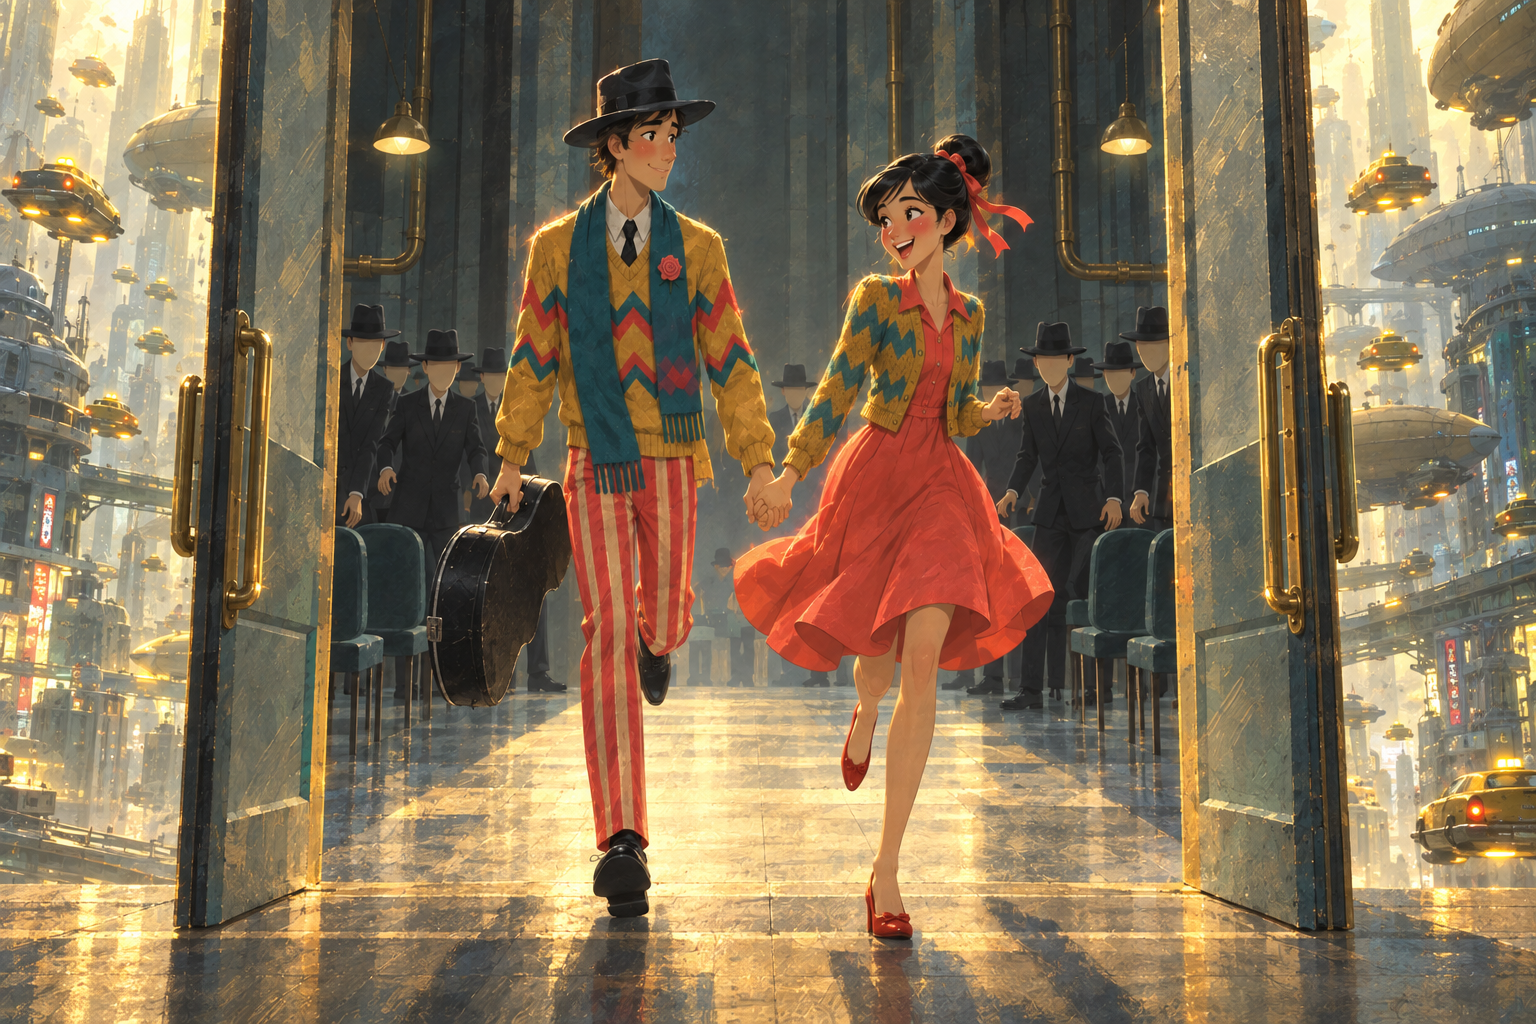
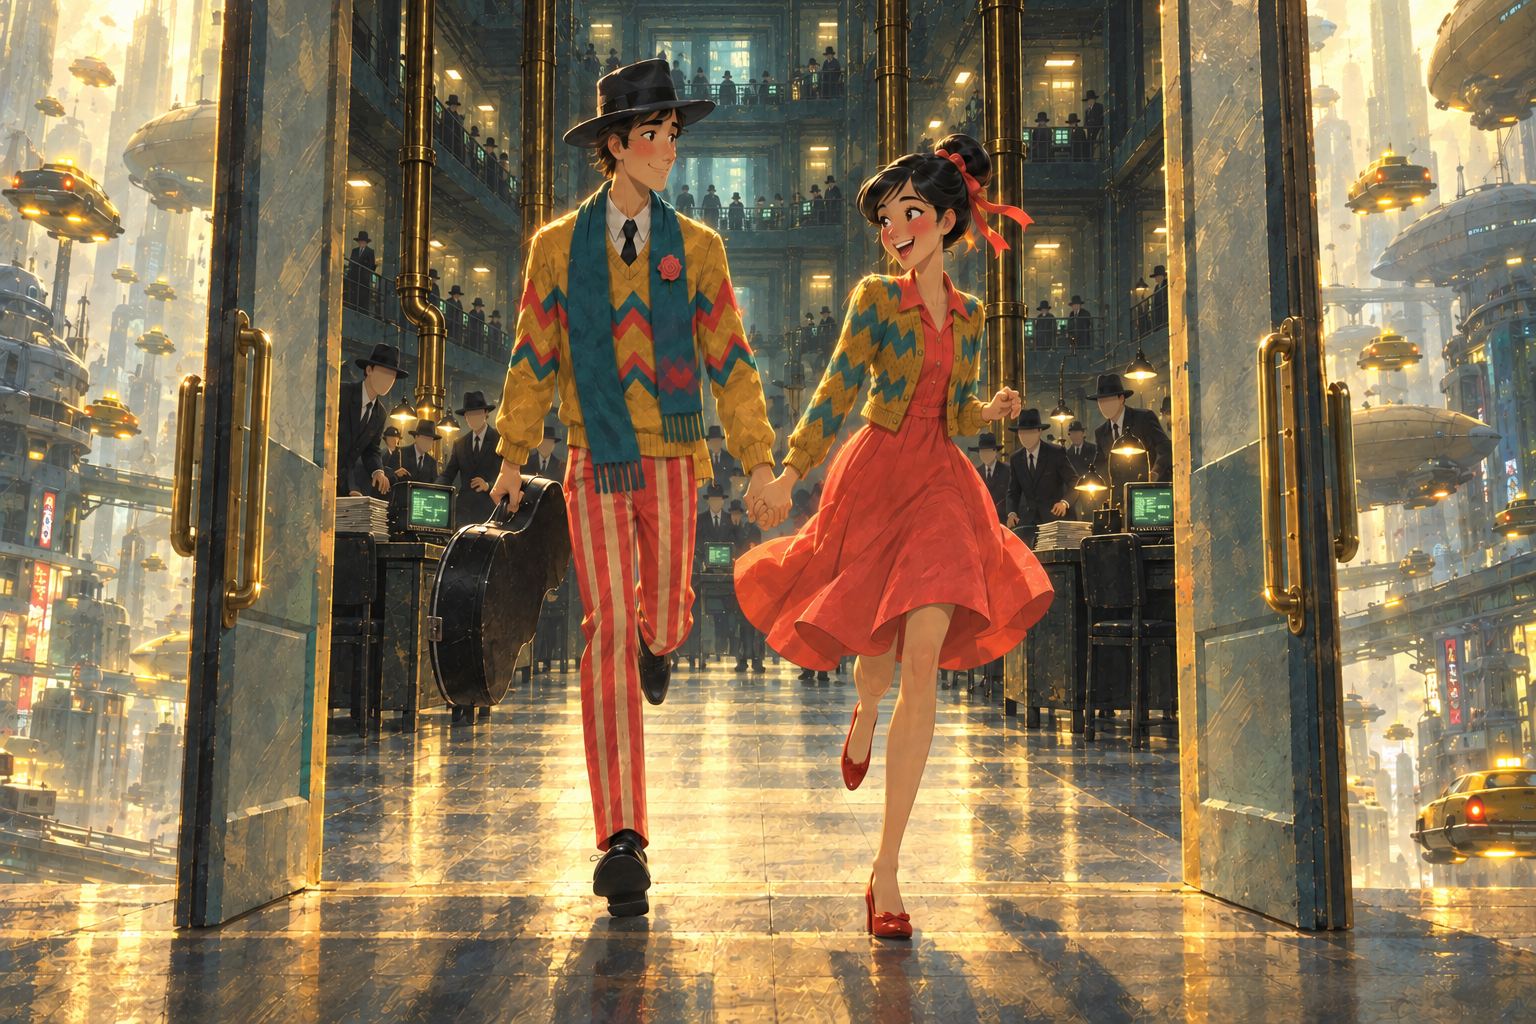
We Got Time world v12: two worlds, real office vs his nightmare hall
The multi-level terminal office is reality; the waiting hall of bodiless
chair-heads is his waking nightmare. Reality beats that had been set in the
hall move into the office, with whole people at terminals, and the escape
leaves the real office for the city. The README maps the song onto the two
worlds; location references are in locations/.

Closes #72

diff --git a/bobwiseman-wgt-generative/world/README.md b/bobwiseman-wgt-generative/world/README.md
@@ -3,7 +3,7 @@
 The goal (Robin): build the world and the stills that a full animation will be made from. This
 folder holds the world bible and a **living animatic** that shows where everything sits in the song.
 
-- `characters/`: plates 7 and 8 (AMENDED) are him and her in colour, for chapter 9 on. REGULATION DRESS plates 5 (him: front, 3/4, side, back) and 6 (her, plus five
+- `characters/`: REGULATION DRESS plates 5 (him: front, 3/4, side, back) and 6 (her, plus five
   expressions). Both match typist contender 1 (`../gpt/typist-contender-1/`).
 - `keyframes/chNN_*.png`: one or two stills per chapter of `../../bobwiseman-we-got-time/STORYBOARD.md`,
   most repainted from pinball-cut frames in `src/` (layout) with the locked style references.
@@ -17,17 +17,26 @@ World rules so far: faceless crowd, painted leads; more ducting and brass pneuma
 indoors; the ministry stays grey-teal with her rose collar as the only warm colour until chapter 9,
 where colour arrives; the sky chapters (5, 10) are blue.
 
-**Storyboard change (Robin, 2026-10-07), the Graduate escape:** he no longer meets her on the road. On
-"But I don't care what it costs" he runs back for her; her laughter dresses them both; they run out of the
-ministry hand in hand while the clerks rise like wedding guests; they walk the hundred miles together.
-Those beats are in `keyframes/escape/` (`ch09_both_dressed_dupe.png` is the version with a duplicated her).
+## Two worlds (Robin, 2026-10-07)
 
-**New style (2026-10-07):** the cinematic painted look from the other session (`../gpt/sky-cabs`, `../mj/14-15`).
-`style2/` holds the restyled plates 5-8, the guitar-case prop sheet (ISSUE ITEM 27B) and the style references.
-`upgrade_one.sh` repaints a still into `keyframes_v2/` (style ref by setting: ministry interiors, city
-exteriors, sky); `new_beat.sh` paints a new beat straight in the new style (`keyframes_v2/beats.tsv`).
-With `use_upgrades` in the manifest, `animatic.py` uses a still's `keyframes_v2` version when one exists, and
-entries listed later win where they overlap. World logic: waiting is his job (he's an employee of the
-Ministry of Waiting; 7 436 912 is his employee number); pneumatic tubes are realistic, hand-width; the flower
-goes by mail (his row's mail column, ceiling tubes, her desk bell). Files ending `_widetube`, `_lumpycase`,
-`_allcases` are the rejected versions, kept for comparison.
+- **Reality:** the multi-level ministry office (`locations/room2_typing_pool.png`), cinematic style. He and she are
+  clerks there; the boss, the time clock and the tube mail are real. Its people have bodies.
+- **His waking nightmare:** the endless waiting hall of bodiless chair-heads facing the NOW SERVING board. The
+  bodiless clerks are intentional (people turned into chairs by waiting). Daydreams (the roof tearing open, the
+  walls folding, the clouds' convention) happen inside it.
+- What crosses between them carries the story: the paper plane from his hall lands on her real desk. The escape runs
+  out of the real building; the sky road belongs to them.
+
+| Song | World |
+|---|---|
+| 0:00-0:13 | reality: tower, revolving door |
+| 0:13-0:58 | nightmare hall ("put me on hold"), roof daydream |
+| 0:58-1:50 | reality: ON HOLD snaps him back; her desk, the flower by tube, the levers |
+| 1:50-2:50 | nightmare into daydream: WE GOT TIME, walls fold, clouds' convention |
+| 2:50-3:01 | reality: complaints torn across the office |
+| 3:01-3:23 | nightmare: the machine montage |
+| 3:23-4:05 | reality, with the boss as the nightmare horn |
+| 4:05-4:50 | reality: he runs back for her, dressed in colour, out the real front doors |
+| 4:50-5:41 | theirs: the sky road; then the empty nightmare hall, his chair the only empty one |
+
+`*_nightmarehall.png` files are the earlier versions of reality beats that were set in the hall.
